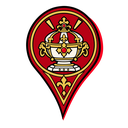
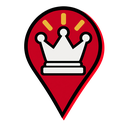
completa gli spilli delle mappe

Changed region(s): [[0.1875, 0.0312, 0.8438, 0.9375]]

diff --git a/docs/grafica/stato-generazione-asset.md b/docs/grafica/stato-generazione-asset.md
@@ -2,7 +2,7 @@
 
 Registro richiesto dall’utente il 2026-09-03. Fonte: `prompt-immagini.md`, `riferimenti-visivi.md` e `data/seed/persona.json`.
 
-**660 file richiesti: 621 completati e approvati, 39 ancora da consegnare.** La Fase 11.6 (§13) è completa e validata 37/37.
+**665 file richiesti: 640 completati e approvati, 25 ancora da consegnare.** La Fase 11.6 (§13) è completa e validata 37/37.
 
 Le voci degli asset consegnati e approvati sono in `archivio-grafico.md`.
 
@@ -49,7 +49,7 @@ Nessuna. La coppia Appeso è stata consegnata dall’utente come PNG RGBA con al
 | ui (schede Partita e Fusione, §16) | 17 | 17 | 0 |
 | ui (azioni, §17) | 46 | 46 | 0 |
 | persona-gruppo (§15) | 27 | 27 | 0 |
-| ui (spilli, §18) | 14 | 0 | 14 |
+| ui (spilli, §18) | 19 | 19 | 0 |
 | mappe (§19) | 25 | 0 | 25 |
 
 ## Elenco degli asset da consegnare
@@ -84,20 +84,25 @@ Nessuna. La coppia Appeso è stata consegnata dall’utente come PNG RGBA con al
 - [x] **COMPLETATO — galaxy_task_validator PASS** — `public/asset/persona-gruppo/ella.png` — 768×768 (§15)
 
 ### ui — spilli (§18)
-- [ ] **DA CONSEGNARE** — `public/asset/ui/spillo-passaggio.png` — 128×128 (§18)
-- [ ] **DA CONSEGNARE** — `public/asset/ui/spillo-negozio.png` — 128×128 (§18)
-- [ ] **DA CONSEGNARE** — `public/asset/ui/spillo-forziere.png` — 128×128 (§18)
-- [ ] **DA CONSEGNARE** — `public/asset/ui/spillo-tesoro.png` — 128×128 (§18)
-- [ ] **DA CONSEGNARE** — `public/asset/ui/spillo-boss.png` — 128×128 (§18)
-- [ ] **DA CONSEGNARE** — `public/asset/ui/spillo-miniboss.png` — 128×128 (§18)
-- [ ] **DA CONSEGNARE** — `public/asset/ui/spillo-sicura.png` — 128×128 (§18)
-- [ ] **DA CONSEGNARE** — `public/asset/ui/spillo-scorciatoia.png` — 128×128 (§18)
-- [ ] **DA CONSEGNARE** — `public/asset/ui/spillo-confidente.png` — 128×128 (§18)
-- [ ] **DA CONSEGNARE** — `public/asset/ui/spillo-attivita.png` — 128×128 (§18)
-- [ ] **DA CONSEGNARE** — `public/asset/ui/spillo-ristorante.png` — 128×128 (§18)
-- [ ] **DA CONSEGNARE** — `public/asset/ui/spillo-distributore.png` — 128×128 (§18)
-- [ ] **DA CONSEGNARE** — `public/asset/ui/spillo-treno.png` — 128×128 (§18)
-- [ ] **DA CONSEGNARE** — `public/asset/ui/spillo-nota.png` — 128×128 (§18)
+- [x] **COMPLETATO — galaxy_task_validator PASS** — `public/asset/ui/spillo-passaggio.png` — 128×128 (§18)
+- [x] **COMPLETATO — galaxy_task_validator PASS** — `public/asset/ui/spillo-negozio.png` — 128×128 (§18)
+- [x] **COMPLETATO — galaxy_task_validator PASS** — `public/asset/ui/spillo-forziere.png` — 128×128 (§18)
+- [x] **COMPLETATO — galaxy_task_validator PASS** — `public/asset/ui/spillo-tesoro.png` — 128×128 (§18)
+- [x] **COMPLETATO — galaxy_task_validator PASS** — `public/asset/ui/spillo-boss.png` — 128×128 (§18)
+- [x] **COMPLETATO — galaxy_task_validator PASS** — `public/asset/ui/spillo-miniboss.png` — 128×128 (§18)
+- [x] **COMPLETATO — galaxy_task_validator PASS** — `public/asset/ui/spillo-sicura.png` — 128×128 (§18)
+- [x] **COMPLETATO — galaxy_task_validator PASS** — `public/asset/ui/spillo-scorciatoia.png` — 128×128 (§18)
+- [x] **COMPLETATO — galaxy_task_validator PASS** — `public/asset/ui/spillo-confidente.png` — 128×128 (§18)
+- [x] **COMPLETATO — galaxy_task_validator PASS** — `public/asset/ui/spillo-attivita.png` — 128×128 (§18)
+- [x] **COMPLETATO — galaxy_task_validator PASS** — `public/asset/ui/spillo-ristorante.png` — 128×128 (§18)
+- [x] **COMPLETATO — galaxy_task_validator PASS** — `public/asset/ui/spillo-distributore.png` — 128×128 (§18)
+- [x] **COMPLETATO — galaxy_task_validator PASS** — `public/asset/ui/spillo-treno.png` — 128×128 (§18)
+- [x] **COMPLETATO — galaxy_task_validator PASS** — `public/asset/ui/spillo-nota.png` — 128×128 (§18)
+- [x] **COMPLETATO — galaxy_task_validator PASS** — `public/asset/ui/spillo-nemico.png` — 128×128 (§18)
+- [x] **COMPLETATO — galaxy_task_validator PASS** — `public/asset/ui/spillo-oggetto-chiave.png` — 128×128 (§18)
+- [x] **COMPLETATO — galaxy_task_validator PASS** — `public/asset/ui/spillo-punto-sensibile.png` — 128×128 (§18)
+- [x] **COMPLETATO — galaxy_task_validator PASS** — `public/asset/ui/spillo-tesoro-palazzo.png` — 128×128 (§18)
+- [x] **COMPLETATO — galaxy_task_validator PASS** — `public/asset/ui/spillo-seme-bramosia.png` — 128×128 (§18)
 
 ### mappe (§19)
 - [ ] **DA CONSEGNARE** — `public/asset/mappe/tokyo.png` — 2048×1536 (§19)

diff --git a/docs/grafica/prompt-immagini.md b/docs/grafica/prompt-immagini.md
@@ -150,10 +150,11 @@ con contorno nero deve leggersi su entrambi) e a 14 px nei chip dei filtri; senz
 | `azione-negozio.png` | Articoli in vendita | insegna con borsa della spesa |
 | `azione-filtri.png` | Apre e chiude il pannello dei filtri del Compendio (acceso quando è aperto, con il conteggio dei filtri attivi accanto) | imbuto stilizzato con tre linee che vi scendono dentro |
 
-## 18. Spilli delle mappe (14) — `ui/spillo-<tipo>.png` (128×128, trasparente) — richiesti il 2026-09-04 (Fase 13)
+## 18. Spilli delle mappe (19) — `ui/spillo-<tipo>.png` (128×128, trasparente) — richiesti il 2026-09-04 (Fase 13)
 Stile delle icone di navigazione §7.1: simbolo bianco con contorno nero dentro una goccia da mappa (punta in basso) di colore pieno per tipo
 (passaggio blu, negozio verde, forziere oro, tesoro viola, boss rosso, miniboss arancio, sicura azzurro, scorciatoia grigio, Confidente rosa,
-attività giallo, ristorante marrone, distributore ciano, treno verde scuro, nota bianco). Senza testo. L'app usa un SVG in codice se manca il file.
+attività giallo, ristorante marrone, distributore ciano, treno verde scuro, nota bianco, nemico bordeaux, oggetto chiave blu,
+punto sensibile arancio vivo, tesoro del Palazzo cremisi, Seme della Bramosia magenta). Senza testo. L'app usa un SVG in codice se manca il file.
 | File | Tipo di spillo | Soggetto |
 |---|---|---|
 | `spillo-passaggio.png` | ingresso/passaggio verso un'altra mappa | porta ad arco con freccia |
@@ -170,6 +171,11 @@ attività giallo, ristorante marrone, distributore ciano, treno verde scuro, not
 | `spillo-distributore.png` | distributore automatico | distributore con lattina |
 | `spillo-treno.png` | stazione della metropolitana | vagone stilizzato |
 | `spillo-nota.png` | nota generica | foglietto con puntina |
+| `spillo-nemico.png` | nemico | maschera d'Ombra minacciosa, distinta dai teschi di boss e miniboss |
+| `spillo-oggetto-chiave.png` | oggetto chiave | chiave antica |
+| `spillo-punto-sensibile.png` | punto sensibile | mirino sopra un nucleo vulnerabile crepato |
+| `spillo-tesoro-palazzo.png` | tesoro principale del Palazzo | corona-reliquia radiante su piedistallo, distinta dalla gemma di tesoro |
+| `spillo-seme-bramosia.png` | Seme della Bramosia | pietra-teschio crepata con viticci e richiami alle tre varianti rossa, verde e blu |
 
 ## 19. Mappe di base della città (25) — `mappe/<chiave>.png` (2048×1536, opache) — richieste il 2026-09-04 (Fase 13)
 Piante ILLUSTRATE originali in stile guida strategica (vista dall'alto leggermente prospettica, sagome nere degli edifici, strade chiare,
